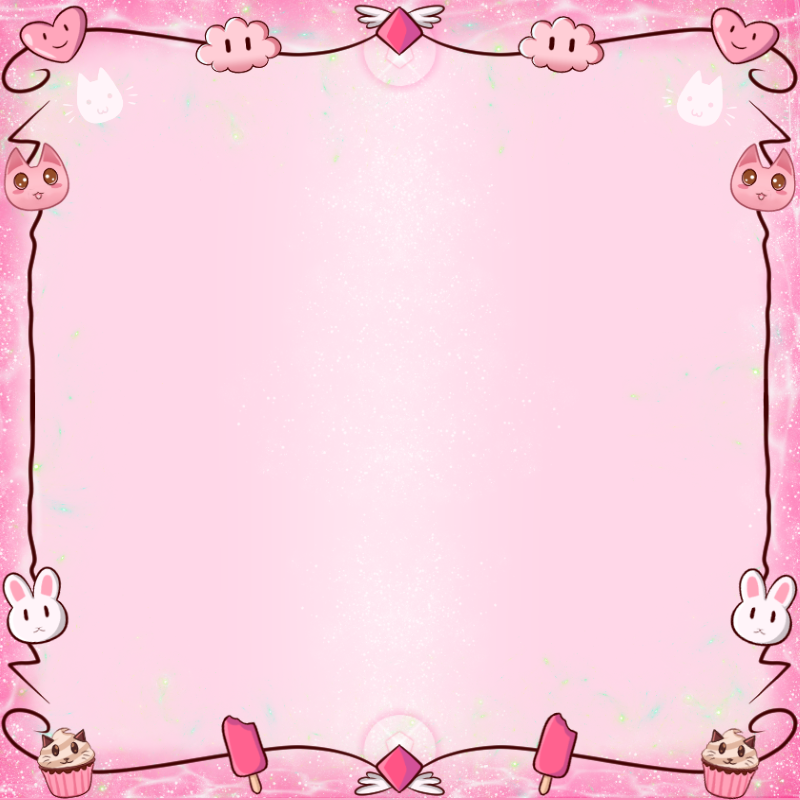
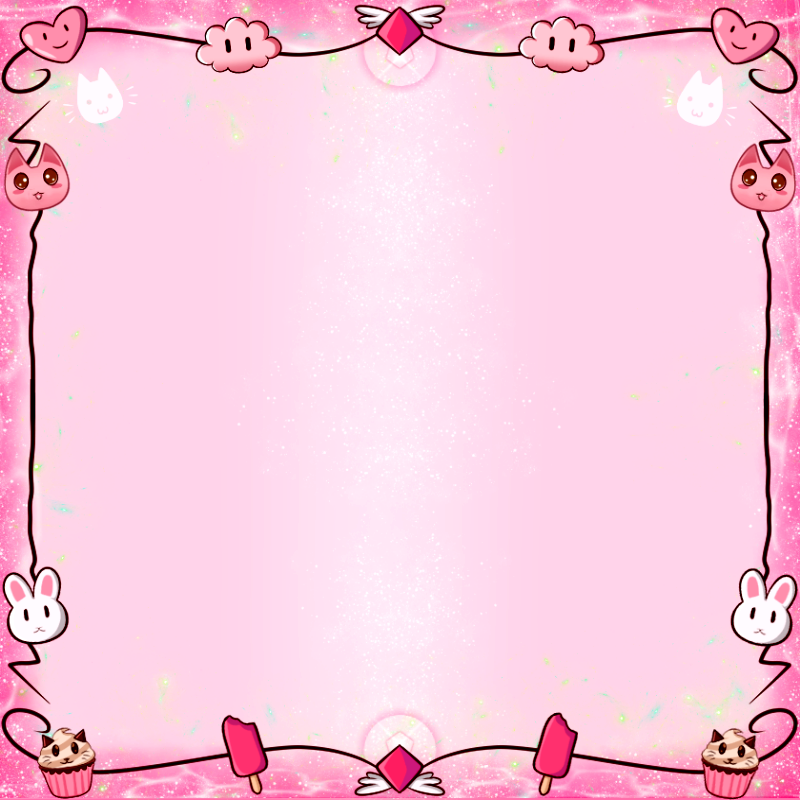
Added Background and finished the general idea for the main page

Changed region(s): [[0.0, 0.0, 0.625, 1.0], [0.5938, 0.0, 1.0, 1.0]]

diff --git a/Css/Index.css b/Css/Index.css
@@ -14,6 +14,10 @@ body {
     width : 100%;
     height : 100%;
     font-family: 'Natsuki_Handwriting',sans-serif;
+    background-image: url(../Images/JNBG.gif);
+    background-position: center;
+    background-size: cover;
+    background-attachment: fixed;
 }
 
 /* The Slider for the animation */
@@ -236,21 +240,27 @@ h2 {
     margin-top: 4%;
     width: 100%;
     text-align: center;
+    font-weight: bold;
     font-size: 3em;
+    text-shadow:
+     -1px -1px 0 white,
+      1px -1px 0 black,
+      -1px 1px 0 black,
+       1px 1px 0 black;
 }
 
 #FeaturesText {
     display: inline-block;
     margin: 4% 0% 0% 0%;
     width: 100%;
-    font-size: 0.6em;
+    font-size: 0.7em;
     font-weight: bold;
     font-style: italic;
 }
 
 .Features {
     display: inline;
-    margin: 0% 8% 0% 8%;
+    margin: 0% 7.5% 0% 7.5%;
     /*background-color: rgba(219,112,147,0.5)*/
 }
 
@@ -277,6 +287,11 @@ h2 {
     font-weight: bold;
     text-align: center;
     font-size: 3em;
+    text-shadow:
+     -1px -1px 0 white,
+      1px -1px 0 black,
+      -1px 1px 0 black,
+       1px 1px 0 black;
 }
 
 #Team {
@@ -313,9 +328,10 @@ h2 {
     font-size: 2em;
     font-weight: bold;
     border: 1px 1px 1px 1px;
+    padding: 2% 1% 2% 1%;
     border-style: double;
     border-color: black;
-    background-color: rgba(0,0,0,0.1);
+    background-color: rgba(255,255,255,0.5);
 }
 
 #DescJMO {
@@ -324,9 +340,10 @@ h2 {
     font-size: 2em;
     font-weight: bold;
     border: 1px 1px 1px 1px;
+    padding: 1% 1% 1% 1%;
     border-style: double;
     border-color: black;
-    background-color: rgba(0,0,0,0.1);
+    background-color: rgba(255,255,255,0.5);
 }
 
 #DescJNN {
@@ -335,9 +352,10 @@ h2 {
     font-size: 2em;
     font-weight: bold;
     border: 1px 1px 1px 1px;
+    padding: 2% 1% 2% 1%;
     border-style: double;
     border-color: black;
-    background-color: rgba(0,0,0,0.1);
+    background-color: rgba(255,255,255,0.5);
 }
 
 #DescJp {
@@ -346,15 +364,21 @@ h2 {
     font-size: 2em;
     font-weight: bold;
     border: 1px 1px 1px 1px;
+    padding: 2% 1% 2% 1%;
     border-style: double;
     border-color: black;
-    background-color: rgba(0,0,0,0.1);
+    background-color: rgba(255,255,255,0.5);
 }
 
 #Github {
     width: 100%;
     text-align: center;
     font-size: 1.1em;
+    text-shadow:
+     -1px -1px 0 white,
+      1px -1px 0 black,
+      -1px 1px 0 black,
+       1px 1px 0 black;
 }
 
 #Github a img {
@@ -368,7 +392,7 @@ h2 {
     margin-top: 5%;
     margin-left: 15%;
     margin-right:15%;
-    padding-bottom: 9.25%;
+    padding-bottom: 10.5%;
 }
 
 h5 {
@@ -384,7 +408,7 @@ h4 {
     font-size: 1.5em;
 }
 
-p {
+#Tweet p {
     width: 70%;
     padding-left: 15%;
     padding-bottom: 5%;
@@ -407,4 +431,17 @@ a:hover {
 
 a:checked {
     color: deeppink;
+}
+
+footer {
+    width: 95%;
+    margin-top: 10%;
+    text-align: right;
+    font-weight: bold;
+    font-size: 1.5em;
+    text-shadow:
+     -1px -1px 0 white,
+      1px -1px 0 black,
+      -1px 1px 0 black,
+       1px 1px 0 black;
 }

diff --git a/Index.html b/Index.html
@@ -21,9 +21,9 @@
                 <nav>
                     <ul id="Navigation_Menu">
                         <li class="Navigation"><a href="Index.html">Home</a></li>
-                        <li class="Navigation"><a href="Download.html">Download</a></li>
+                        <li class="Navigation"><a href="https://www.reddit.com/r/DDLCMods/comments/jmiuaq/just_natsuki_43_halloween_the_third/">Download</a></li>
                         <li class="Navigation DropMenu">
-                            <a href="more.html">More</button>
+                            <a href=#Navigation_Menu>More</a>
 
                             <div class="dropdown-content">
                                 <a href="more.html/#">Old Downloads</a>
@@ -135,16 +135,16 @@
                         -Daisy!
 
                     </p>
-
+                
                 </div>
 
-                    <!-- Credits -->
-                    <footer>
-                        <ul>
-                            <li class="footer">Site created by someone named Jparnaud</li>
-                        </ul>
-                    </footer>
+                <!-- Credits -->
+                <footer>
 
+                    <p>- All Credits to the website goes to the Just Natsuki Team</p>
+
+                </footer>
+                    
                 </div>
 
             </div>
